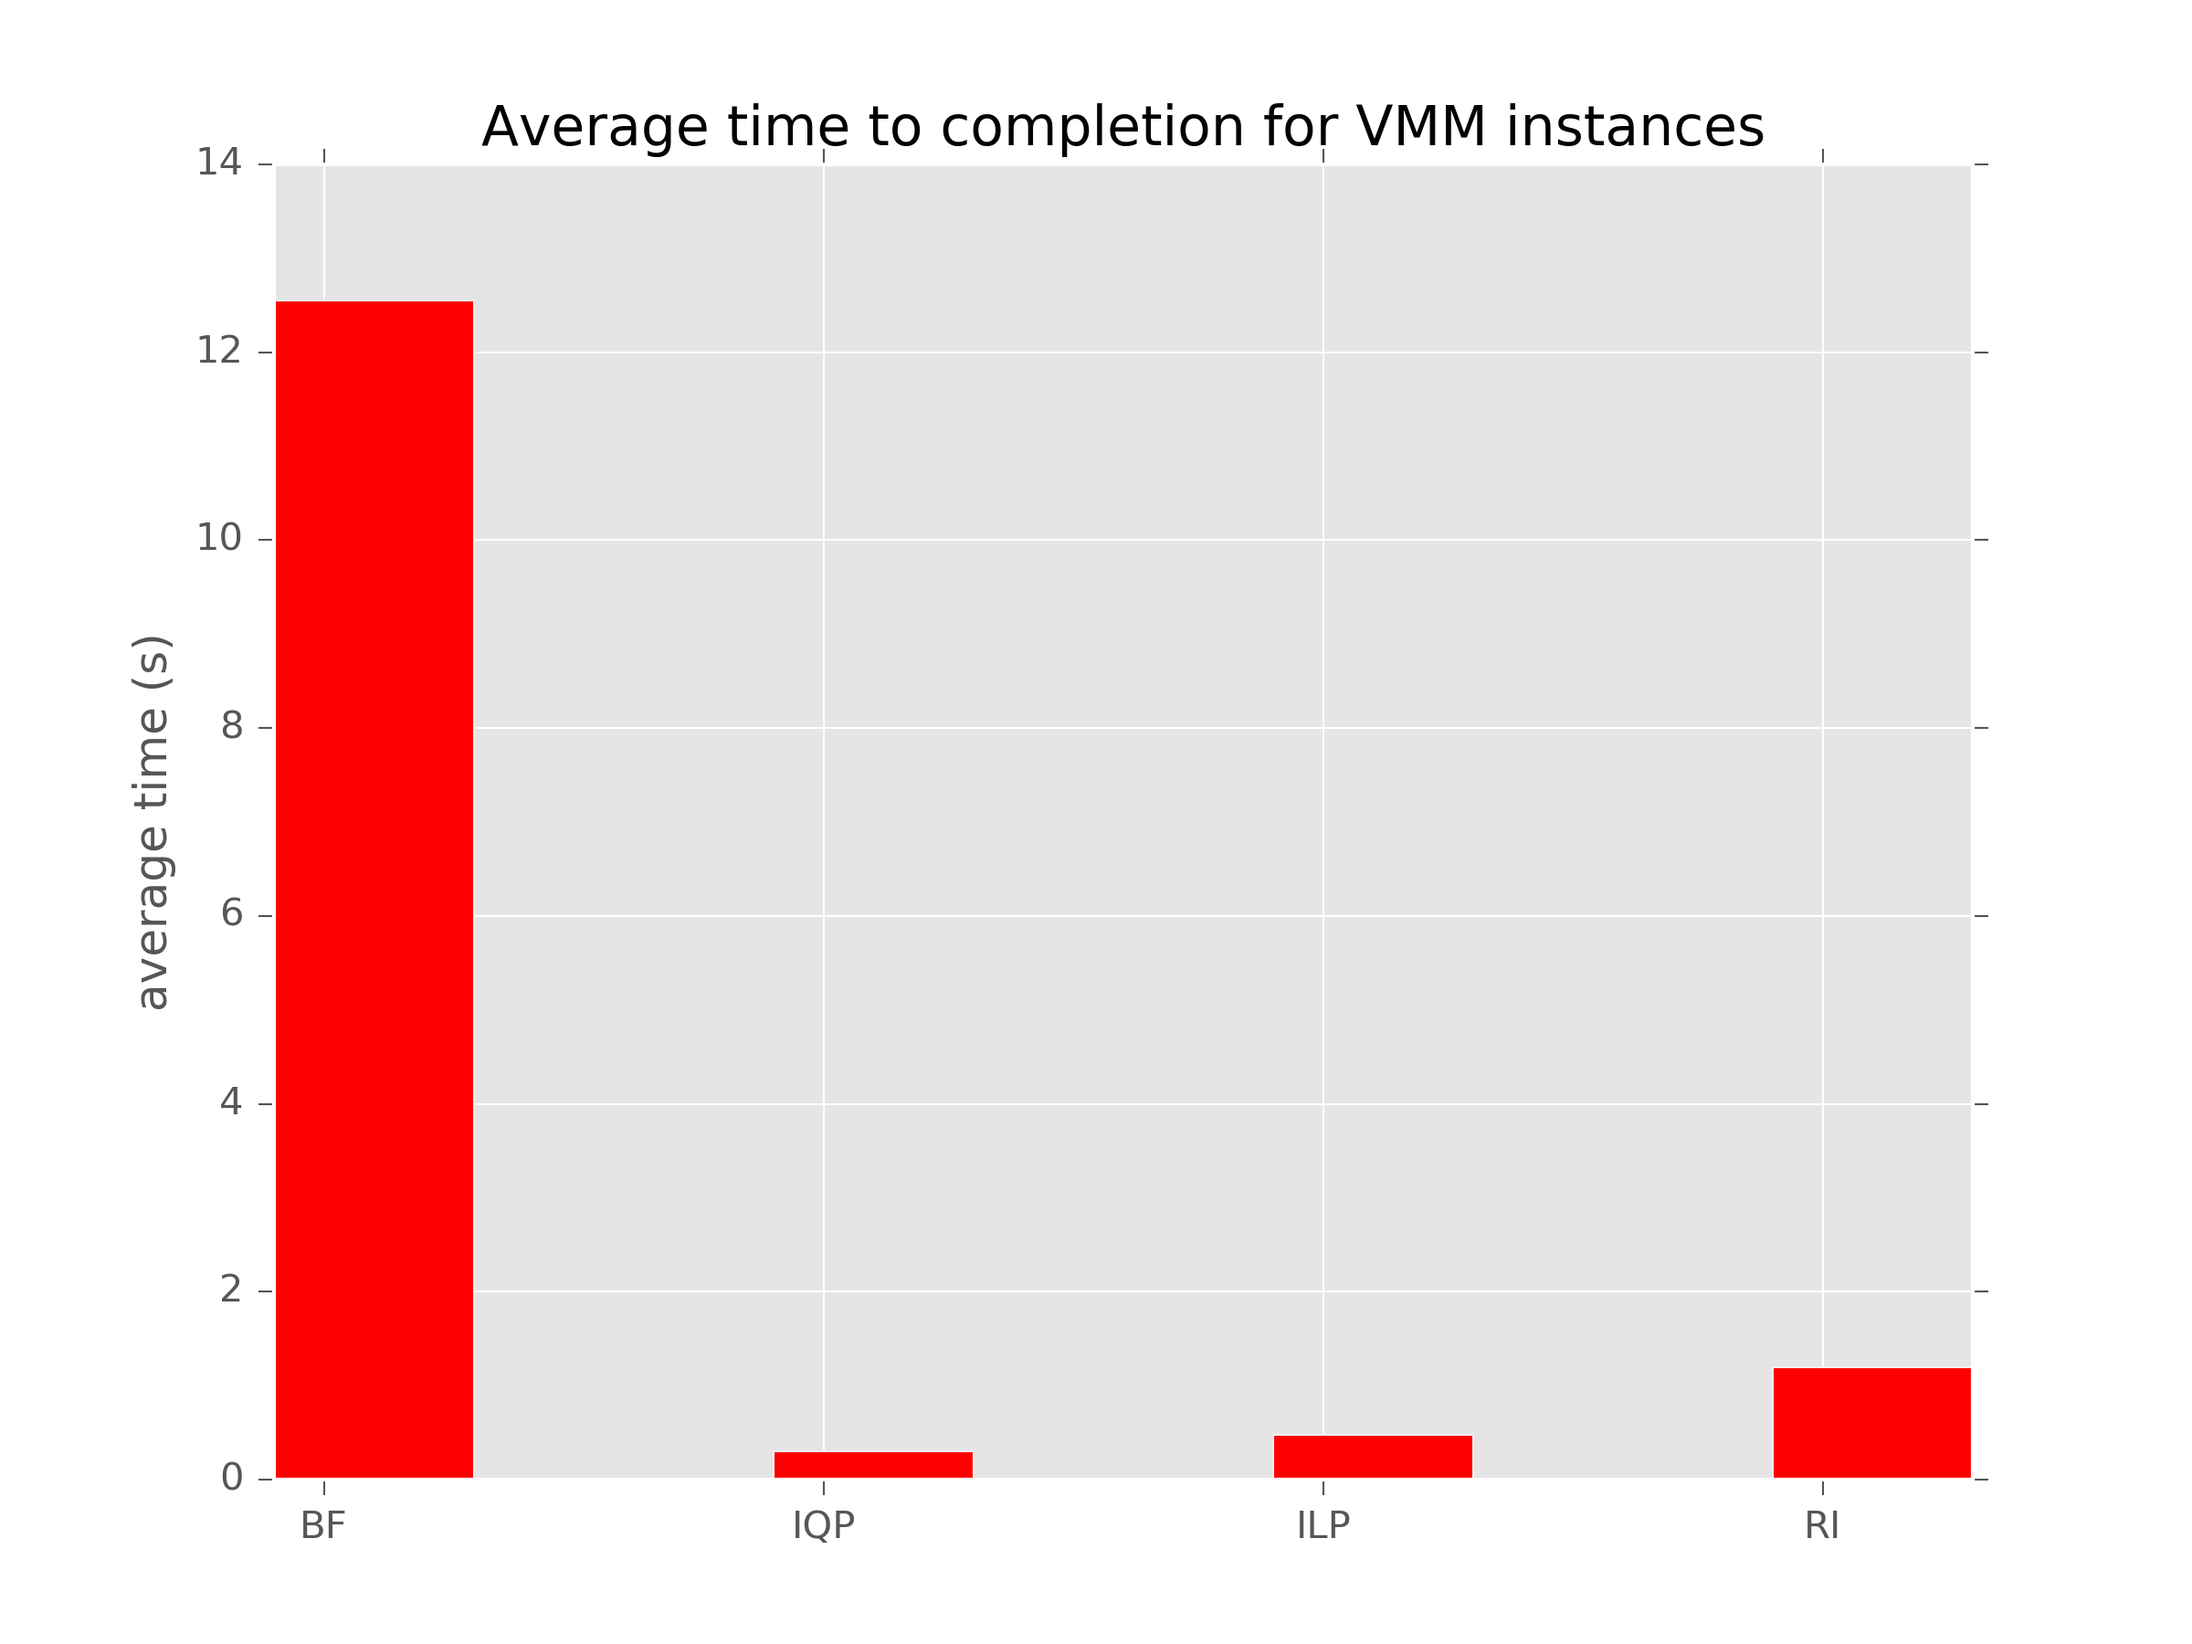
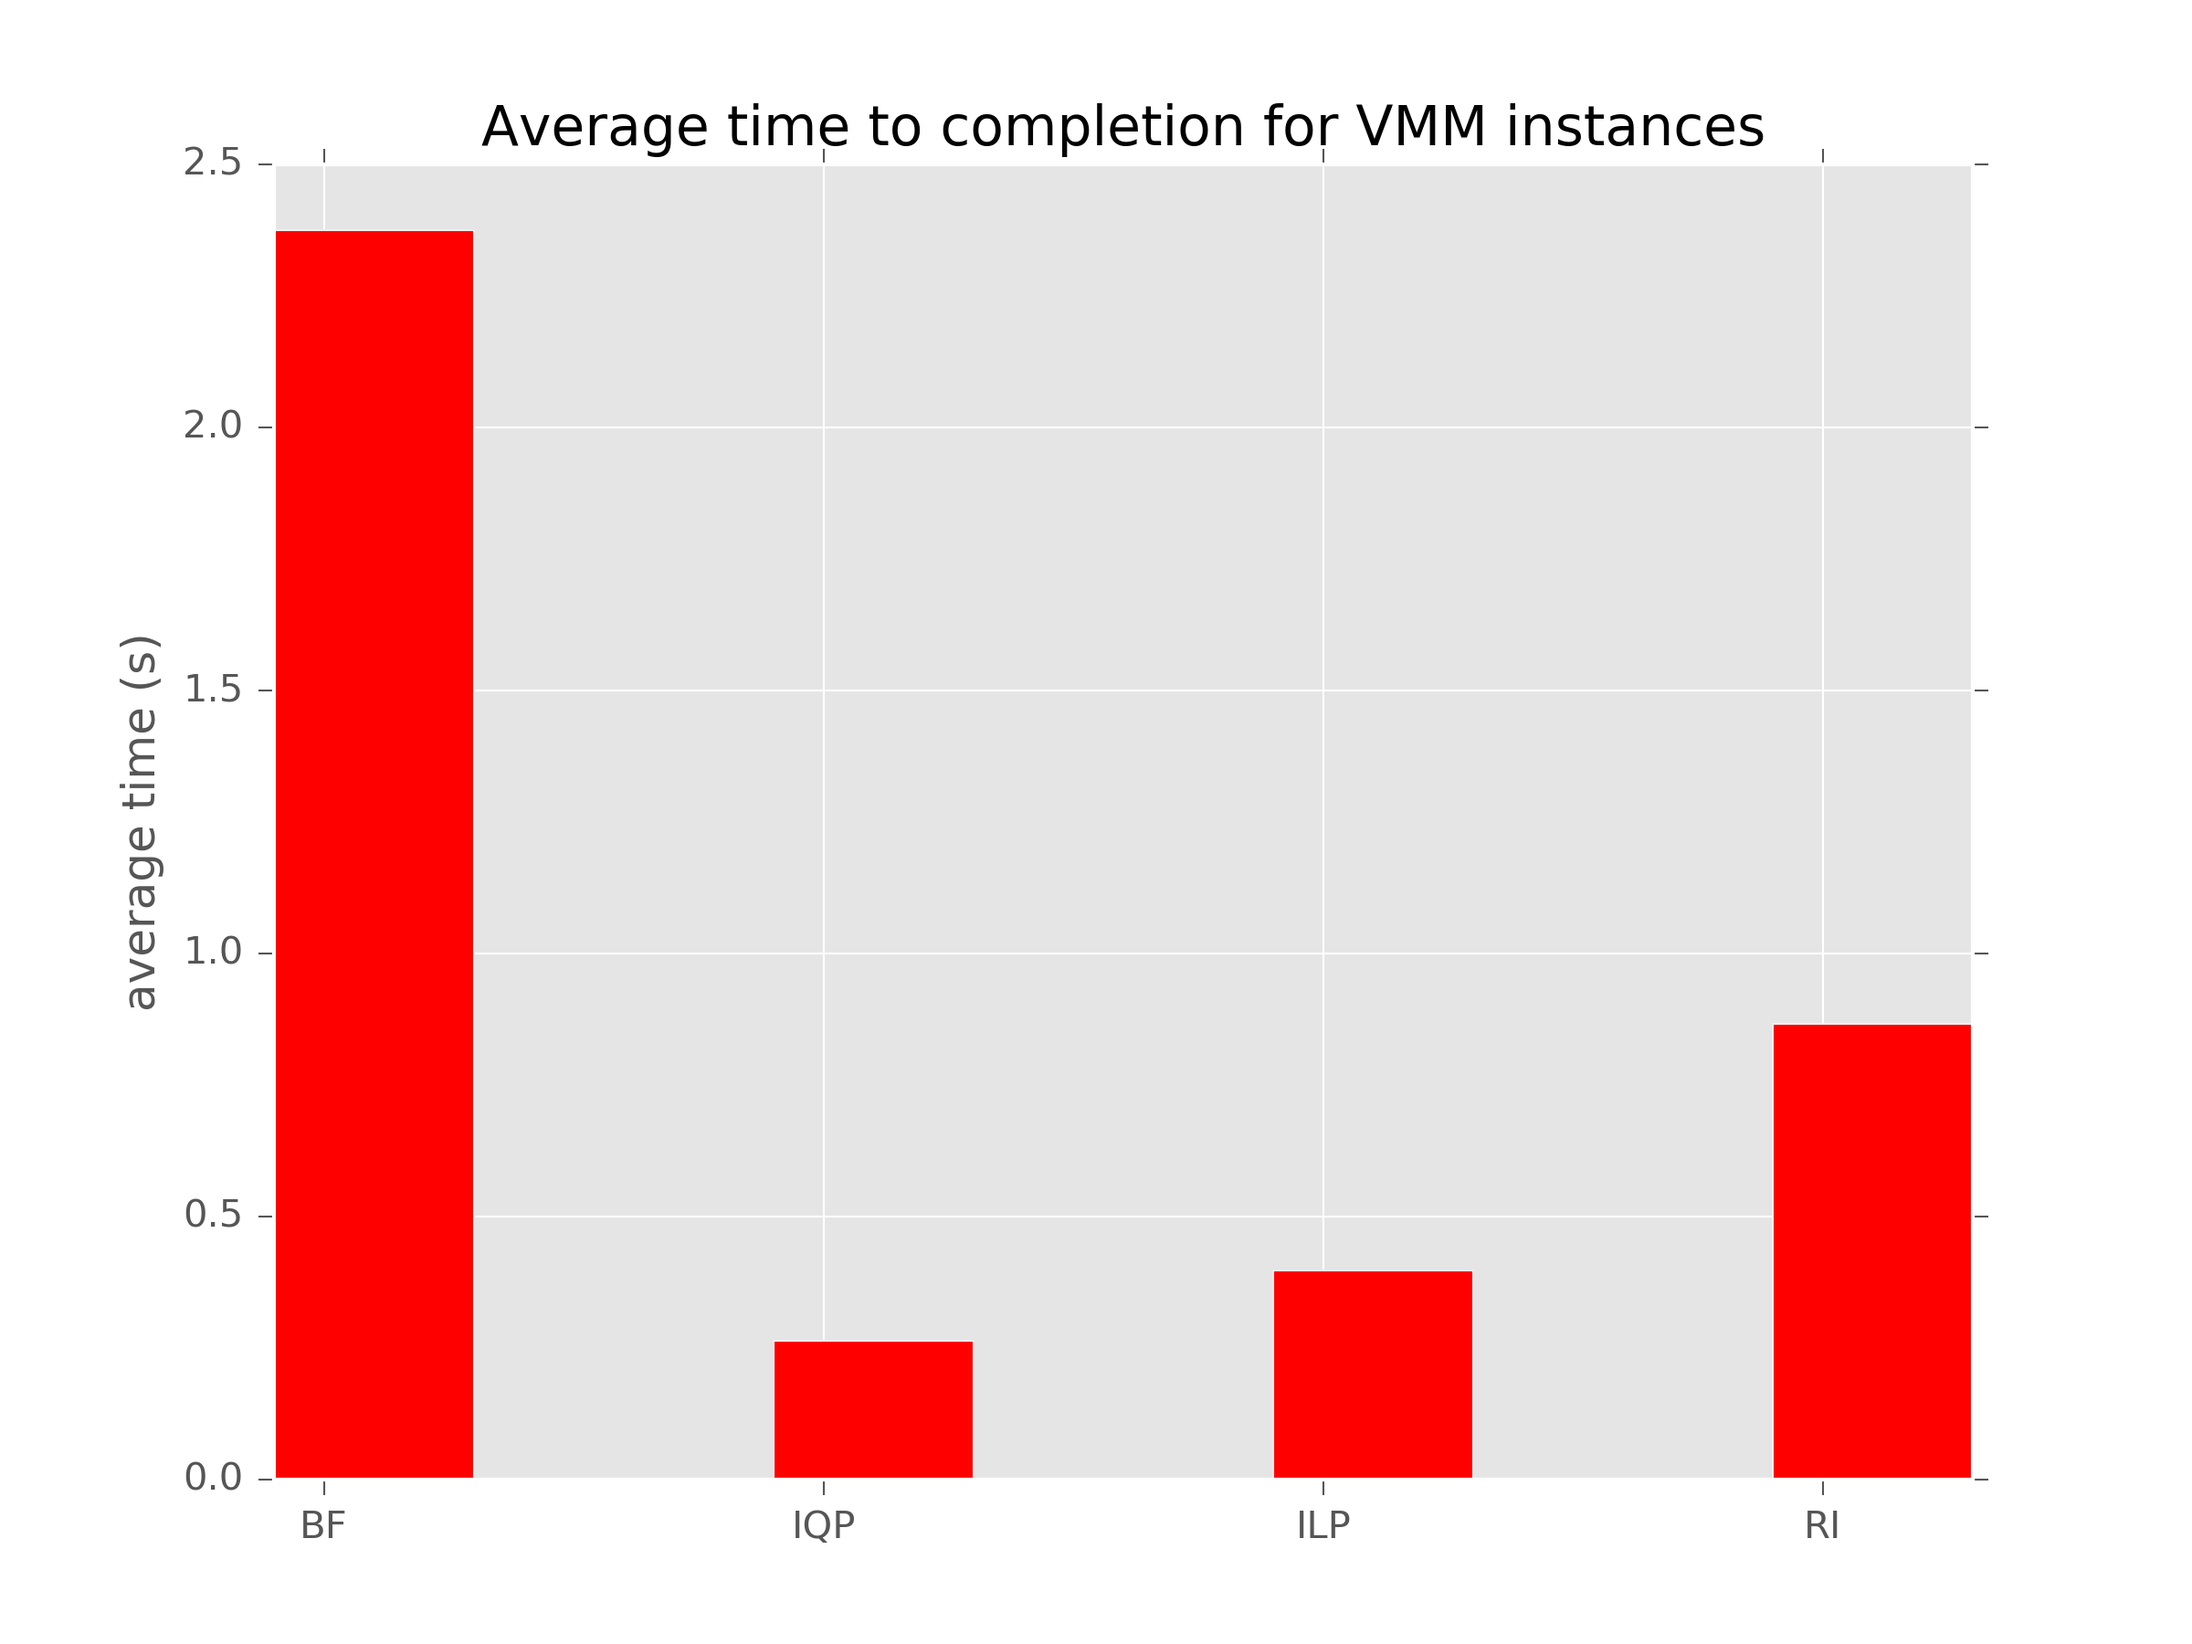
Graphs.

diff --git a/pysrc/june_21.py b/pysrc/june_21.py
@@ -14,10 +14,10 @@ ilp_response = []
 ri_response = []
 
 # measuring times for various methods
-for i in range(5):
-    for j in range(10):
+for i in range(4):
+    for j in range(50):
         a = 0
-        if i == 4:
+        if i == 3:
             a = VMM(i+1, 9)
         else:
             a = VMM(i+1, 2*(i+1))
@@ -62,9 +62,9 @@ plt.title("Time to completion for VMM instances")
 plt.xlabel("problem size in number of physical machines")
 plt.ylabel("time (s)")
 bf_plot, = plt.plot(variable, bf_response, 'co', label='BF')
+ri_plot, = plt.plot(variable, ri_response, 'go', label='RI')
 ilp_plot, = plt.plot(variable, ilp_response, 'bo', label='ILP')
 iqp_plot, = plt.plot(variable, iqp_response, 'ro', label='IQP')
-ri_plot, = plt.plot(variable, ri_response, 'go', label='RI')
 plt.legend(handles=[bf_plot, ilp_plot, iqp_plot, ri_plot])
 plt.savefig("june-21-fig1.png", format="png", dpi=300)
 plt.clf()
